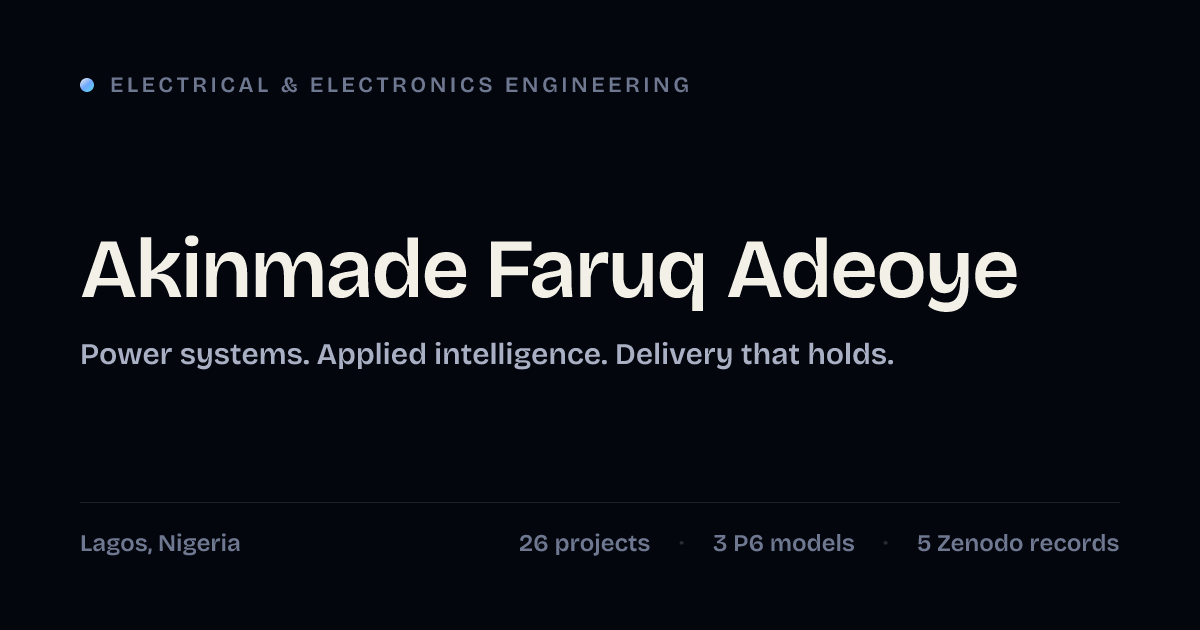
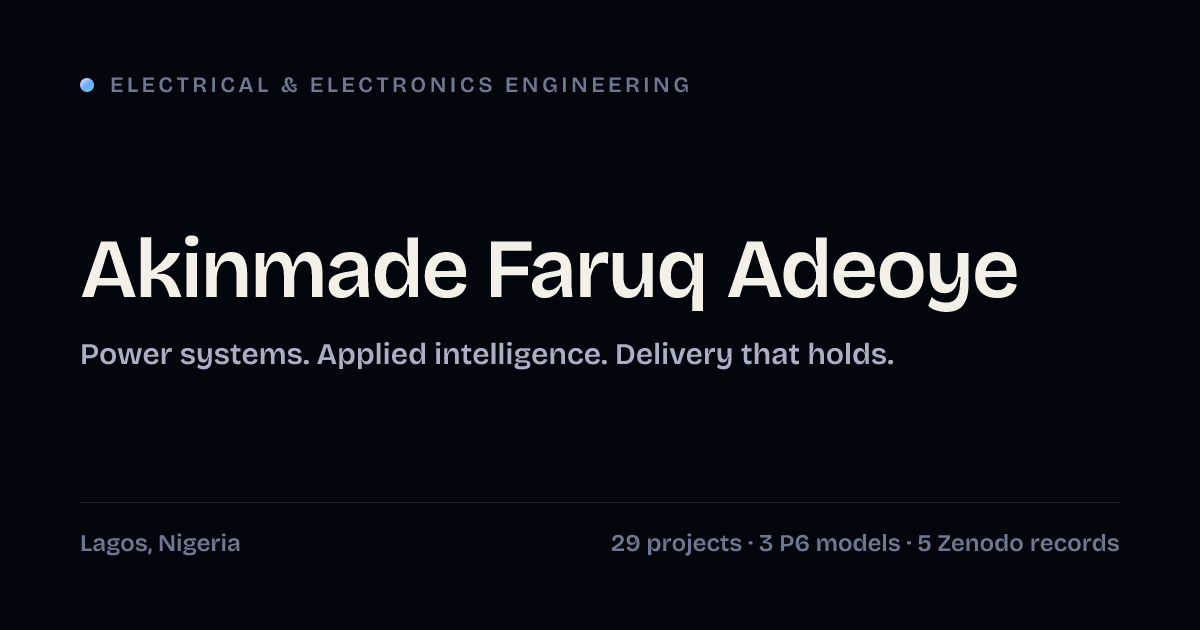
Give every project its own share card, and add three builds from the repos
Two things the record had been holding back.

**Share cards.** A link to any case study previewed as the site's name card —
correct, but it told a reader on LinkedIn nothing about the project they were
being sent. Each of the 32 records now has its own 1200×630 card under
`public/og/`: the discipline, the title, the number the record reports, and the
DOI where there is one. They are generated by `scripts/make-og.mjs` from the
same content modules the pages render, so a retitled project produces a
retitled card, and they are committed rather than rendered per request — the
crawlers that matter get a PNG instead of waiting on a function. That is 1.2 MB
of images, not JavaScript: the budget is unchanged.

**Three builds from the repository record.** The catalogue stopped at what the
old site listed. Three of the 58 public repositories were worth promoting, and
each is written from its own README:

  - Kith — verified student housing. NIMC-checked students, porter
    inspections, and Paystack escrow that moves from pending to held only on a
    signed `charge.success` webhook. The case study says plainly that this is
    the build and not a launched marketplace.
  - Arkvolt — the storefront and back office for the Lagos hardware business.
    Naira only, no gateway by design: the basket records intent and the money
    is confirmed on WhatsApp. Written up as one business's build, not a
    platform.
  - Omo-Onile Radar — GPT-4 Vision reads a photographed survey plan, the
[…]

Changed region(s): [[0.4317, 0.8444, 0.7708, 0.8746], [0.8017, 0.8444, 0.925, 0.8746]]

diff --git a/content/case-studies.ts b/content/case-studies.ts
@@ -137,6 +137,41 @@ const details: Record<string, CaseStudyDetail> = {
       { label: 'Modelled budget', value: 'US$17.35m' },
     ],
   },
+
+  // ---- Builds added from the repository record ---------------------------
+  // Written from each repository's own README, which is the only material we
+  // have on them. Where the README is silent — traffic, funding, whether it
+  // shipped — so is this.
+  'omo-onile-radar': {
+    context:
+      'A Lagos plot is sold off a survey plan, and the plan states its position in the Nigerian Minna Datum — a system no consumer mapping app accepts and most buyers cannot read. The question a buyer actually has is simple: where is this land, and does it fall inside a government acquisition?',
+    approach:
+      'A Streamlit application: GPT-4 Vision reads the photographed survey plan, the extracted coordinates are reviewed and corrected in the interface, then transformed from Minna Datum (EPSG:26331 and 26332, the western and eastern zones) into WGS84. Folium plots the boundary over Esri satellite imagery, with CSV export, email alerts on submitted leads, and term-based checks for acquisition zones and red-flag wording. A demo mode runs without an API key.',
+    result:
+      'One path from a photographed plan to a plotted boundary, with both Minna zones supported and the coordinates editable before anything is mapped.',
+    limits:
+      'The coordinates are editable precisely because the OCR output is reviewed rather than trusted, and the acquisition warning is a term check, not a search of the state register. It supports due diligence; it is not a title search and does not establish ownership.',
+  },
+  'kith-verified-housing': {
+    context:
+      'Student housing in Nigeria is transacted on trust in both directions: a room is paid for before it is seen, and a landlord hands over keys to someone they have never met. The constraint was to make the money wait until the facts had been checked — the student verified, the home inspected.',
+    approach:
+      'A pnpm monorepo: a Next.js web app and a realtime service on Prisma, with four roles (student, landlord, porter, admin) and a PGlite fallback so the build runs without a Postgres server. Reserving writes a pending booking and a pending 85/15 transaction and holds the room, then sends the student to Paystack — or to a mock checkout when no live key is set. Nothing confirms until a signed charge.success webhook arrives, which flips the booking, moves the escrow from pending to held, mints the guest pass and notifies both sides. Tampered amounts, wrong signatures and replays are refused and audited.',
+    result:
+      'The reserve → pay → escrow → pass path is wired end to end, with NIMC verification and porter inspection standing between a booking and a confirmed tenancy. Scoped to launch at FUNAAB and UNILAG.',
+    limits:
+      'This is the build, not a launched marketplace: no real tenancies have run through it, and the escrow split is a product decision rather than a regulated deposit scheme. Paystack integration is exercised through its signed-webhook contract and a mock checkout.',
+  },
+  'arkvolt-storefront': {
+    context:
+      'A one-engineer IT hardware business in Lagos was running a shop out of WhatsApp threads and memory. The constraint was to give it a storefront and a back office the owner could run without editing code, while leaving payment where the customers already are.',
+    approach:
+      'A Next.js 14 App Router storefront plus a noindex admin dashboard, over an Express and Prisma API on PostgreSQL. Shared zod schemas and money, date and WhatsApp helpers live in one package so the two surfaces cannot drift. Public routes cover the catalogue, the repair bench, laptop-title requests, the cart and order lookup; admin routes cover products, orders, bookings, enquiries, services and settings, with an audit log and rate limits on the API.',
+    result:
+      'Both surfaces are built and deployable — storefront and dashboard to Vercel, API and database to Render — with the whole catalogue, booking and enquiry flow operable from the dashboard.',
+    limits:
+      'No payment gateway by design, so revenue is still confirmed by hand on WhatsApp; the "checkout" records intent, not money. It is a build for one business, not a multi-tenant platform.',
+  },
 }
 
 export type CaseStudy = {

diff --git a/content/site.ts b/content/site.ts
@@ -515,6 +515,7 @@ export const projects: Project[] = [
   { slug: 'heart-disease-risk', category: 'ai', title: 'Heart-Disease Risk Model', metric: 'Stacked ensemble', desc: 'Logistic regression and XGBoost combined for an educational risk-model demonstration.' , links: [{ label: 'Live demo', href: 'https://heart-disease-predictor-atx8csvrdglknzmp28hfay.streamlit.app' }, { label: 'Code', href: 'https://github.com/Fharuk/heart-disease-predictor' }] },
   { slug: 'crop-recommendation', category: 'ai', title: 'Crop Recommendation System', metric: 'Agritech prototype', desc: 'Soil N-P-K inputs to explore crop recommendation for Nigerian agricultural contexts.' , links: [{ label: 'Live demo', href: 'https://intelligent-crop-recommendation-system.streamlit.app' }, { label: 'Code', href: 'https://github.com/Fharuk/Intelligent-Crop-Recommendation-System' }] },
   { slug: 'sms-spam-detection', category: 'ai', title: 'SMS Spam Detection Engine', metric: 'F1 reported as 0.99', desc: 'TF-IDF, Random Forest and SMOTE pipeline with bulk CSV analysis and feature-importance visualisation.' , links: [{ label: 'Live demo', href: 'https://spam-sms-detector-anqt8p2whl9vzfccsa7xrp.streamlit.app' }, { label: 'Code', href: 'https://github.com/Fharuk/spam-sms-detector' }] },
+  { slug: 'omo-onile-radar', category: 'ai', title: 'Omo-Onile Radar', metric: 'Minna Datum → WGS84', desc: 'Reads a photographed survey plan with GPT-4 Vision, converts Nigerian Minna Datum coordinates to WGS84 and plots the boundary over satellite imagery, flagging acquisition zones and red-flag terms. Due-diligence support, not a title search.' , links: [{ label: 'Code', href: 'https://github.com/Fharuk/Omo-Onile-Radar' }] },
 
   // software
   { slug: 'wifi-auditor', category: 'software', title: 'WiFi Performance Auditor', metric: 'Event-driven dashboard', desc: 'Bandwidth and latency monitoring dashboard for performance trends and SLA indicators.' , links: [{ label: 'Live demo', href: 'https://wifi-dashboard-fgavfog3iwlm3s25iwnpjd.streamlit.app' }, { label: 'Code', href: 'https://github.com/Fharuk/WiFi-Dashboard' }] },
@@ -523,6 +524,8 @@ export const projects: Project[] = [
   { slug: 'lagos-route-optimisation', category: 'software', title: 'Lagos Route Optimisation Engine', metric: '25% lower simulated distance', desc: 'Vehicle-routing model for four trucks and sixteen delivery stops, compared with sequential routing and visualised in Folium.' },
   { slug: 'microservices-backend', category: 'software', title: 'Event-Driven Microservices Backend', metric: 'Producer–consumer design', desc: 'Python demonstration of decoupled order and fulfilment services over an asynchronous, file-backed message queue.' },
   { slug: 'invoice-extraction', category: 'software', title: 'Automated Invoice Extraction', metric: 'Document pipeline', desc: 'Watcher and extraction workflow capturing invoice number, date and amount into a CSV log.' },
+  { slug: 'kith-verified-housing', category: 'software', title: 'Kith — Verified Student Housing', metric: 'Escrow-gated booking', desc: 'Next.js and Prisma build for verified Nigerian student housing: NIMC-checked students, porter inspections, four roles, and Paystack escrow released against a signed webhook rather than a promise.' , links: [{ label: 'Code', href: 'https://github.com/Fharuk/Kith' }] },
+  { slug: 'arkvolt-storefront', category: 'software', title: 'Arkvolt Storefront & Back Office', metric: 'Storefront + dashboard', desc: 'Next.js 14 storefront, repair-bench booking and a private admin dashboard over an Express and Prisma API. Naira only and no gateway by design: a basket is a promise to buy, and payment is confirmed on WhatsApp.' , links: [{ label: 'Code', href: 'https://github.com/Fharuk/Arkvolt' }] },
 
   // research
   { slug: 'pi-domain-adaptation', category: 'research', title: 'Physics-Informed Domain Adaptation', metric: '100% precision & recall reported', desc: 'Digital-twin and 1D-CNN approach for CWRU-bearing sim-to-real fault diagnosis in a data-scarce setting.', links: [{ label: 'Zenodo', href: 'https://zenodo.org/records/18794765' }] },

diff --git a/app/work/[slug]/page.tsx b/app/work/[slug]/page.tsx
@@ -43,7 +43,11 @@ export async function generateMetadata({ params }: Props): Promise<Metadata> {
       url,
       images: [
         {
-          url: p('/og.png'),
+          // One card per study, committed at public/og/<slug>.png and
+          // regenerated by `npm run og`. A shared link then previews the
+          // project — its title, its discipline and the number it reports —
+          // rather than the site's name card.
+          url: p(`/og/${study.slug}.png`),
           width: 1200,
           height: 630,
           alt: study.title,
@@ -54,7 +58,7 @@ export async function generateMetadata({ params }: Props): Promise<Metadata> {
       card: 'summary_large_image',
       title,
       description,
-      images: [p('/og.png')],
+      images: [p(`/og/${study.slug}.png`)],
     },
   }
 }

diff --git a/content/cv.ts b/content/cv.ts
@@ -8,7 +8,7 @@ import { projects, site, type Credential } from '@/content/site'
  * restated in prose that could drift away from the site, and nothing is
  * asserted here that the site does not already say.
  *
- * The one deliberate omission: the CV shows six of the twenty-six builds.
+ * The one deliberate omission: the CV shows six of the twenty-nine builds.
  * A two-page document that lists thirty software demos reads as a list, not
  * as a person. The full catalogue — and a case study for every record — lives
  * on the site, which is what /cv points at.

diff --git a/components/hero/energy-hero.tsx b/components/hero/energy-hero.tsx
@@ -83,7 +83,7 @@ export function EnergyHero() {
                 { k: '300 MW', v: 'offshore wind BoP modelled' },
                 { k: '722', v: 'P6 activities across 3 models' },
                 { k: '5', v: 'research records on Zenodo' },
-                { k: '26', v: 'projects catalogued' },
+                { k: '29', v: 'projects catalogued' },
               ].map((s) => (
                 <div key={s.k} className="text-left md:text-right">
                   <dt className="metric text-[1.35rem] leading-none">{s.k}</dt>

diff --git a/components/cv/cv-document.tsx b/components/cv/cv-document.tsx
@@ -255,7 +255,7 @@ export function CvDocument() {
                 ))}
               </ul>
               <p className="mt-4 text-[0.8125rem] text-[var(--color-haze)]">
-                Six of twenty-six.{' '}
+                Six of twenty-nine.{' '}
                 <Link href="/work" className="link text-[var(--color-mist)]">
                   Every build, with a case study
                 </Link>

diff --git a/app/sitemap.ts b/app/sitemap.ts
@@ -12,7 +12,7 @@ export const dynamic = 'force-static'
  * so search engines have an unambiguous answer.
  */
 export default function sitemap(): MetadataRoute.Sitemap {
-  const lastModified = new Date('2026-10-30')
+  const lastModified = new Date('2026-11-04')
   const studies = caseStudies.map((c) => ({
     url: absolute(`/work/${c.slug}`),
     lastModified,

diff --git a/docs/DESIGN.md b/docs/DESIGN.md
@@ -13,7 +13,7 @@ technical support, in Lagos.
 That is not a persona tweak. The liquid-chrome hero, the "design systems"
 capability list, the invented projects — all of it was wrong and was removed.
 What survived was the craft layer: the type system, the motion rules, the glass,
-the scroll engine. What replaced the content is his actual record: 26 projects,
+the scroll engine. What replaced the content is his actual record: 29 projects,
 3 P6 models, 5 Zenodo records, 36 credentials, and three degrees — two of them
 still in progress, which the Education block says out loud.
 
@@ -145,7 +145,7 @@ Motion either answers an action or communicates space.
 
 ## Known gaps
 
-- Case studies exist at `/work/[slug]` for all 29 records (26 projects and the
+- Case studies exist at `/work/[slug]` for all 32 records (29 projects and the
   three P6 models), but only eight have long-form sections. The rest render
   the record itself — metric, description, caveat — because inventing a
   constraint and an approach for a build we have no material on would be
@@ -155,7 +155,13 @@ Motion either answers an action or communicates space.
   file a recruiter attaches to an application. `npm run cv` regenerates the
   PDF after any content edit — nothing else in the repo can produce it, and
   a stale PDF is worse than none.
-- No per-project OG images; one static `og.png` covers the whole site.
+- Every case study has its own share card (`public/og/<slug>.png`), built from
+  the same content module the page renders: discipline, title, the number it
+  reports, and the DOI if it has one. A link to one project no longer previews
+  as "Akinmade Faruq Adeoye" with no indication of which project it is. The
+  cards are committed rather than rendered per request, so the crawlers that
+  matter get a PNG instead of waiting on a function — and the ~1 MB they add
+  is images, not JavaScript, so the budget above is untouched.
 - Two Zenodo records were listed in the wrong order (PIDA and the Riemannian
   BCI paper) for one deployment. Caught by fetching both records instead of
   trusting the earlier website, which — unusually — had them right. The

diff --git a/README.md b/README.md
@@ -78,10 +78,13 @@ the whole OpenGraph block rather than just its title, because Next **replaces** 
 parent's `openGraph` object wholesale instead of deep-merging: a page that set
 only `openGraph.title` would silently lose the share image.
 
-The share card is a committed 1200×630 PNG at `public/og.png`, generated with
-satori (`next/og`) rather than a `opengraph-image.tsx` route, because dynamic
-image routes are unavailable under `output: 'export'`. Regenerate it after
-changing the copy:
+Share cards are committed 1200×630 PNGs — `public/og.png` for the site and one
+per case study at `public/og/<slug>.png` — generated with satori (`next/og`)
+rather than a `opengraph-image.tsx` route, because dynamic image routes are
+unavailable under `output: 'export'`. Each card is built from the same content
+modules the page renders, so a retitled project produces a retitled card. The
+script imports `content/case-studies.ts` directly, which is why it runs through
+the same type-stripping loader as the CV. Regenerate after changing any copy:
 
 ```bash
 npm run og
@@ -130,7 +133,7 @@ nothing here needs editing when a custom domain is attached.
 Real, not placeholder. Sourced from the existing portfolio at
 `fharuk.github.io/portfolio` and the documents in the shared Drive folder:
 
-- 26 projects across engineering (7), AI & data (9), software & IT (6) and research (4)
+- 29 projects across engineering (7), AI & data (10), software & IT (8) and research (4)
 - 3 Primavera P6 planning models — 300 MW offshore wind BoP, pipeline rehabilitation, pipeline replacement — with their activity, relationship, assignment and risk counts
 - 5 research records on Zenodo
 - B.Eng. Electrical & Electronics Engineering, FUNAAB, July 2025
